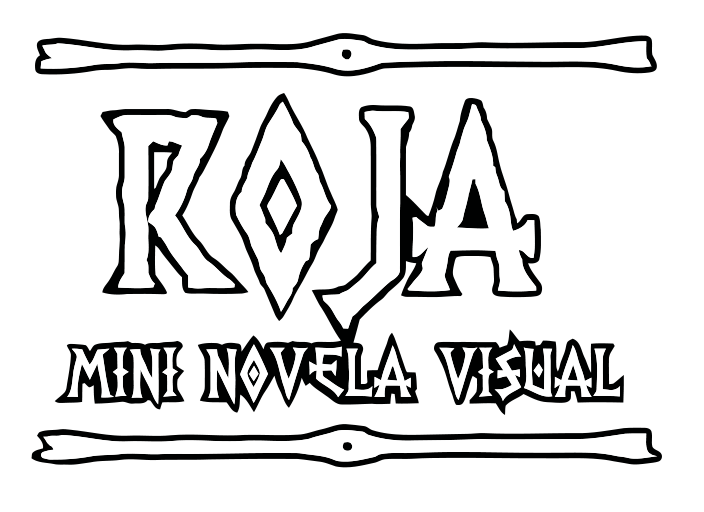
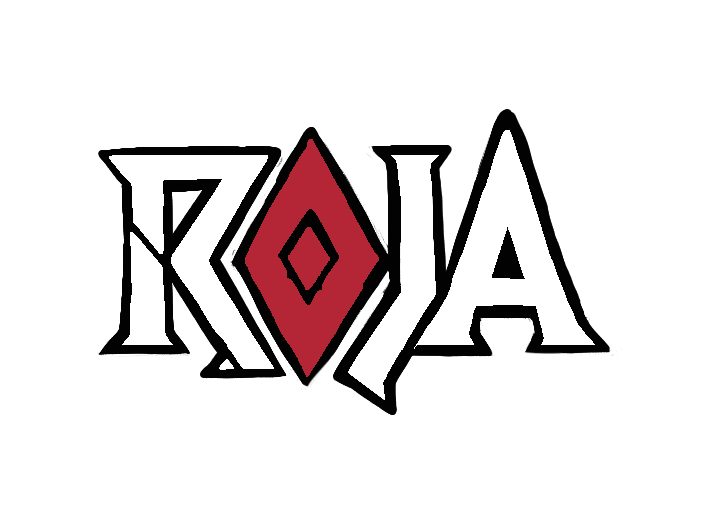
v9

Changed region(s): [[0.0312, 0.1875, 0.9375, 0.9375], [0.0312, 0.0625, 0.9375, 0.1562]]

diff --git a/red/style.css b/red/style.css
@@ -65,25 +65,28 @@
 #porcentaje_contenedor {
   background-color: black;
   color: white;
-  width: 400px;
+  /* width: 400px; */
   height: 20px;
   display: flex;
   position: relative;
   /* justify-content: space-around; */
 }
 #barra{
-background-color: red;
-display: block;
+  background-color: white;
+  display: block;
   width: 0%;
   height: 100%;
-  /* transition: width 0.5s; */
+ /* transition: width 0.5s; */
 }
 #porcentaje{
-color: white;
-  top: 0px;
-  position: absolute;
-  width: 100%;
-  text-align: center;
+  color: #f7f7f7;
+    top: 3px;
+    position: absolute;
+    width: 100%;
+    height: 100%;
+    text-align: center;
+    font-family: "proxima-nova",sans-serif;
+    mix-blend-mode: difference;
 }
 
 
@@ -146,6 +149,7 @@ background-repeat: no-repeat;
 background-size: cover;
 
   }
+
   #parte-inferior{
     background-color: #02021a;
     background-color:  var(--main-bg-color);
@@ -308,9 +312,64 @@ margin: 0px auto;
   position: absolute;
   display: flex;
   justify-content: center;
-  align-items: center;}
+  align-items: center;
+  overflow: hidden;
+  font-family: "proxima-nova",sans-serif;
+}
 
+#redes_mainmenu{
+  display: flex;
+    /* background-color: #0000004a; */
+    position: absolute;
+    bottom: 0;
+    padding: 30px;
+    font-size: 25px;
+    width: 100%;
+    justify-content: center;
+    text-align: center;
+}
+.redes{
+  margin-left: 30px;
+  /* background-color: red; */
+  display: flex;
+  justify-content: center;
+}
+.redes a{
+  color: white;
+  text-decoration: none;
+  display: flex;
+}
+.redes i{
+  margin-right: 10px;
+}
+.redes g{    font-size: 20px;
+  /* background-color: red; */
+  display: flex;
+  justify-content: center;
+  align-items: center;
+}
+.version{    
 
+    position: absolute;
+    bottom: 0;
+    left: 0;
+    padding: 30px;
+    font-size: 15px;
+    font-family: monospace;
+}
+@media only screen and (max-width: 800px) {
+  .version { padding: 10px;}
+  .redes {margin-left: 15px; }
+  .redes g{ display: none;}
+  #redes_mainmenu{
+    /* background-color: #0000004a; */
+      position: absolute;
+      bottom: 0;
+      padding: 10px;
+      width: 100%;
+      text-align: center;
+  }
+}
 
 #button{    position: absolute;
     bottom: 0px;
@@ -478,22 +537,38 @@ opacity: 1;
 #contenedor:-webkit-full-screen >  #landscape #full #tooltip {
     display: none;
 }
-
-
-
+.fa-info-circle{ 
+  background-color: black;
+  color: #ffc522;
+  padding: 6px 7px;
+  font-size: 20px;
+  border-radius: 6px;
+}
 
 
 #landing button {
   color: white;
   border: 2px solid white;
-  padding: 8px;
-  margin: 1%;
-  font-size: 1.5vw;
-  letter-spacing: 2.5px;
+  padding: 11px;
+  margin: 4%;
+  font-size: 1.0vw;
+  /* letter-spacing: 2.5px; */
   font-kerning: none;
-  font-weight: 600;
+  /* font-weight: 600; */
   cursor: pointer;
   background-color: #0b0a10;
-  font-family: "julif Handwriting";
-  font-size: 2.5vw;
+  /* font-family: "julif Handwriting"; */
+  font-size: 25px;
+  font-family: "proxima-nova",sans-serif;
+  text-transform: uppercase;
+
 }
+
+@media only screen and (max-width: 800px) { 
+
+  #landing button {
+    font-size: 15px;
+    padding: 8px;
+    margin: 1%;
+  }
+ }

diff --git a/red/red.html b/red/red.html
@@ -44,7 +44,7 @@
 
       <div id="full">
         <div id="tooltip"  role="tooltip">
-          <span >  se recomienda pantalla completa </span>
+          <i class="fas fa-info-circle"></i><span >  se recomienda pantalla completa </span>
        
           <div id="arrow" data-popper-arrow></div>
         </div>
@@ -54,25 +54,25 @@
       </div>
 
  
-  <!--  splash ------------------------------------------------------------------------------  -->
+  <!--  loading page ------------------------------------------------------------------------------  -->
   <section  id="pre_loader" >
+    
     <div id="preloader" ></div>
     <div style="
     text-align: center;   
 ">
+<div> <img  id="roja_title_img" src="img/roja2.png" > </div>
     <div id="porcentaje_contenedor"><div id="barra"></div>  <div id="porcentaje"></div></div>
     <div id="terminado" style="
     margin-top: 20px;
 "></div>
     </div>
   </section>
-  <!--  landing ------------------------------------------------------------------------------  -->
+  <!--  main menu  ------------------------------------------------------------------------------  -->
   <div id="landing" style="display: none;"> 
     <div style="text-align: center; /* background-color: #000000ba; */
     padding: 32px;">
-      <!-- <h1  style="font-size: 65px;    margin: 0px;margin-bottom: 0px;"> Caperusita Roja  </h1>
-      <h2  style="font-size: 45px;    margin: 0px;margin-bottom: 20px;">mini-novela visual </h2> -->
-      <div> <img  id="roja_title_img" src="img/roja.png" > </div> 
+      <div> <img  id="roja_title_img" src="img/roja2.png" > </div> 
       <style>
         #roja_title_img{ width: 70%;}
         @media only screen and (max-width: 800px) {
@@ -82,6 +82,12 @@
       <button onclick="myFunction()"> Iniciar </button>
       
     </div>
+
+     <div id="redes_mainmenu"> 
+       <div class="redes" ><a href="https://www.google.com/"> <i class="fab fa-facebook-square"></i>  <g>Julif </g> </a> </div>
+       <div class="redes" ><a href="https://www.google.com/"> <i class="fab fa-instagram"></i><g>@_julif_</g></a></div>
+     </div> 
+     <div class="version"> v 1.0.3 </div>
    
 
   </div>
@@ -148,6 +154,8 @@ var imagenes_a_cargar = [
    "julif.svg", 
    "roja.png", 
    "roja2.png", 
+   "roja3.png", 
+   "roja4.png", 
    "red.png", 
    "red22.png",
    "animatic.png",
